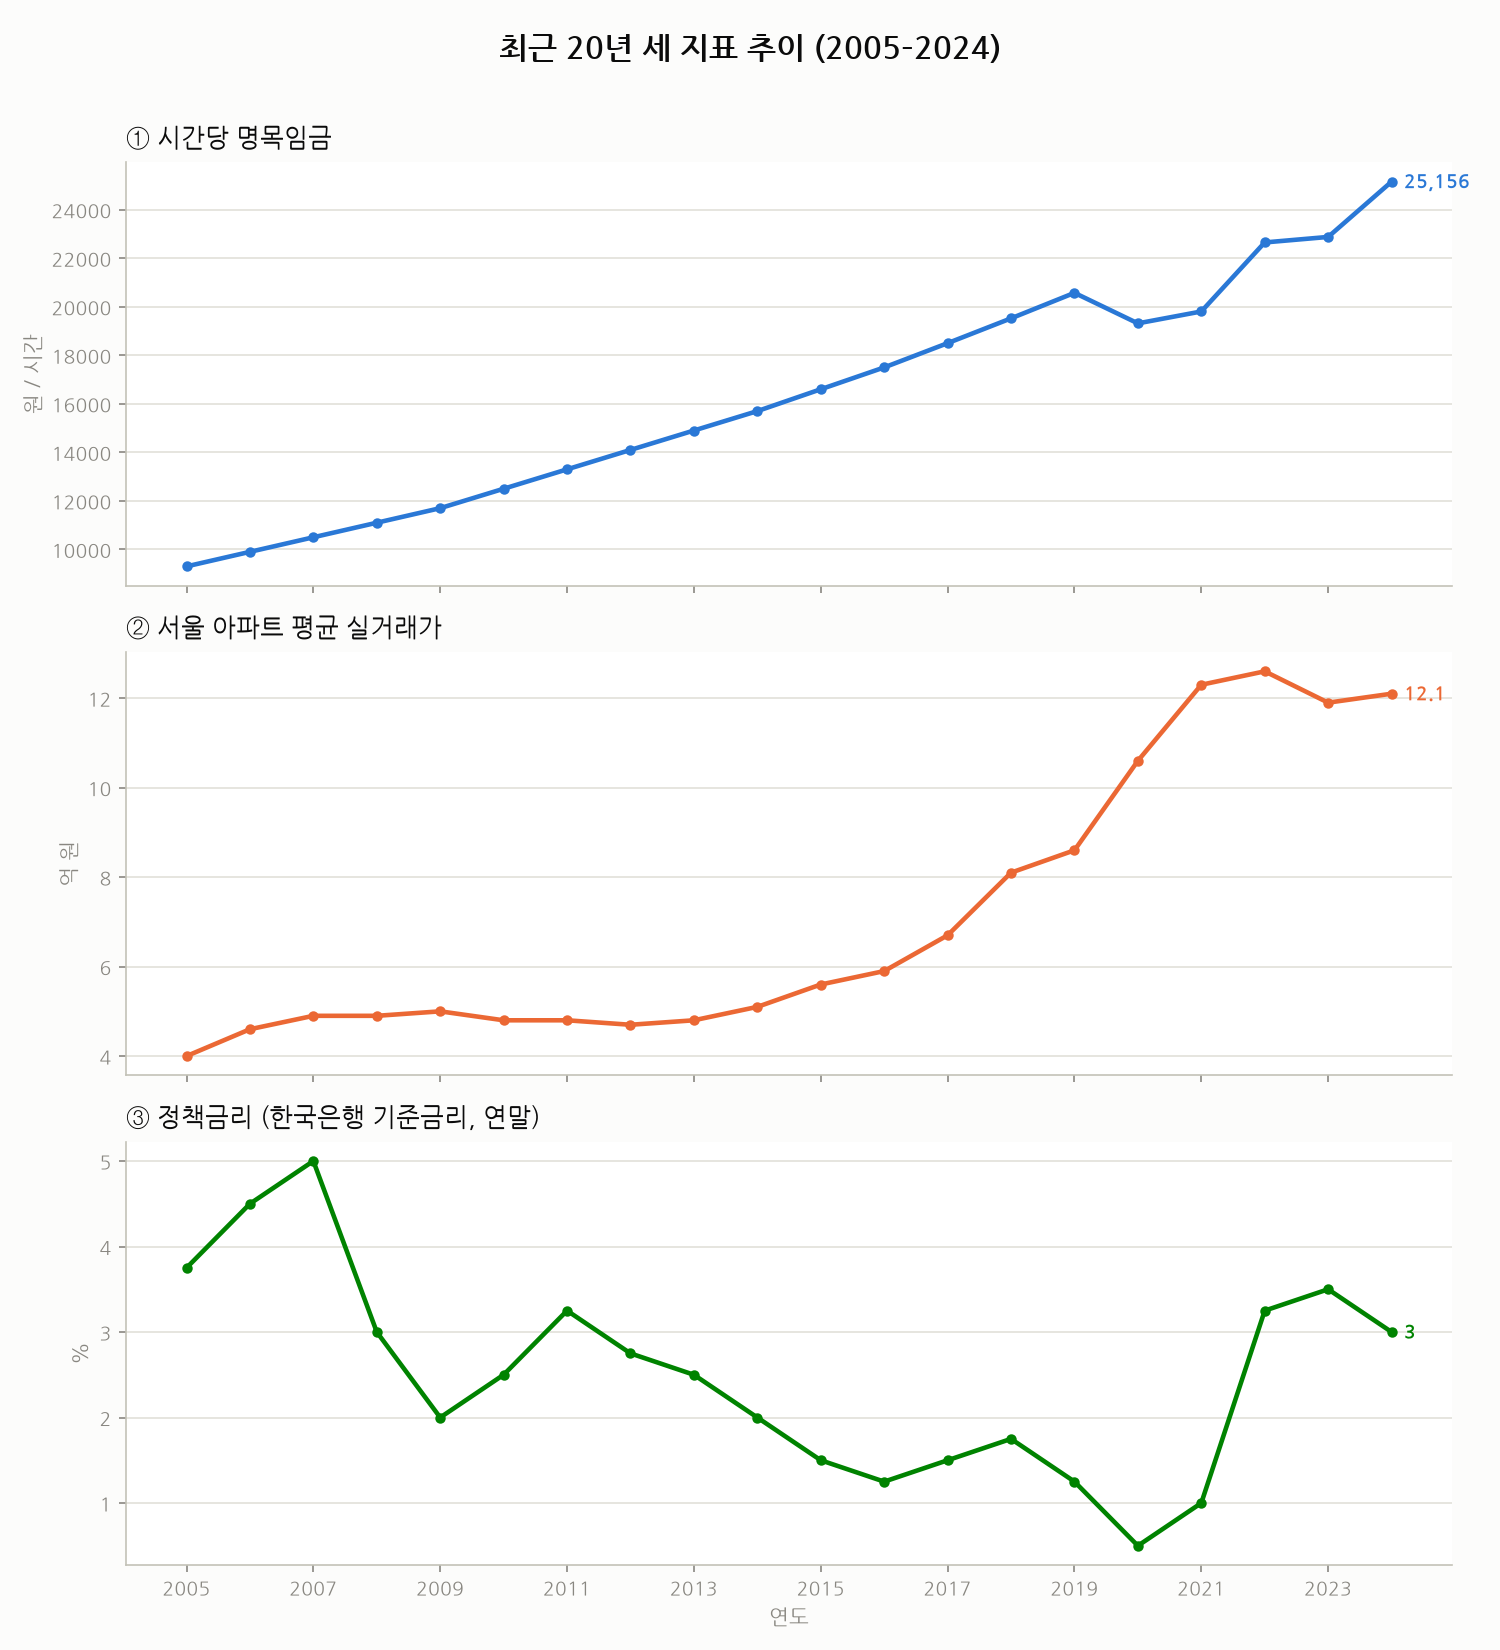
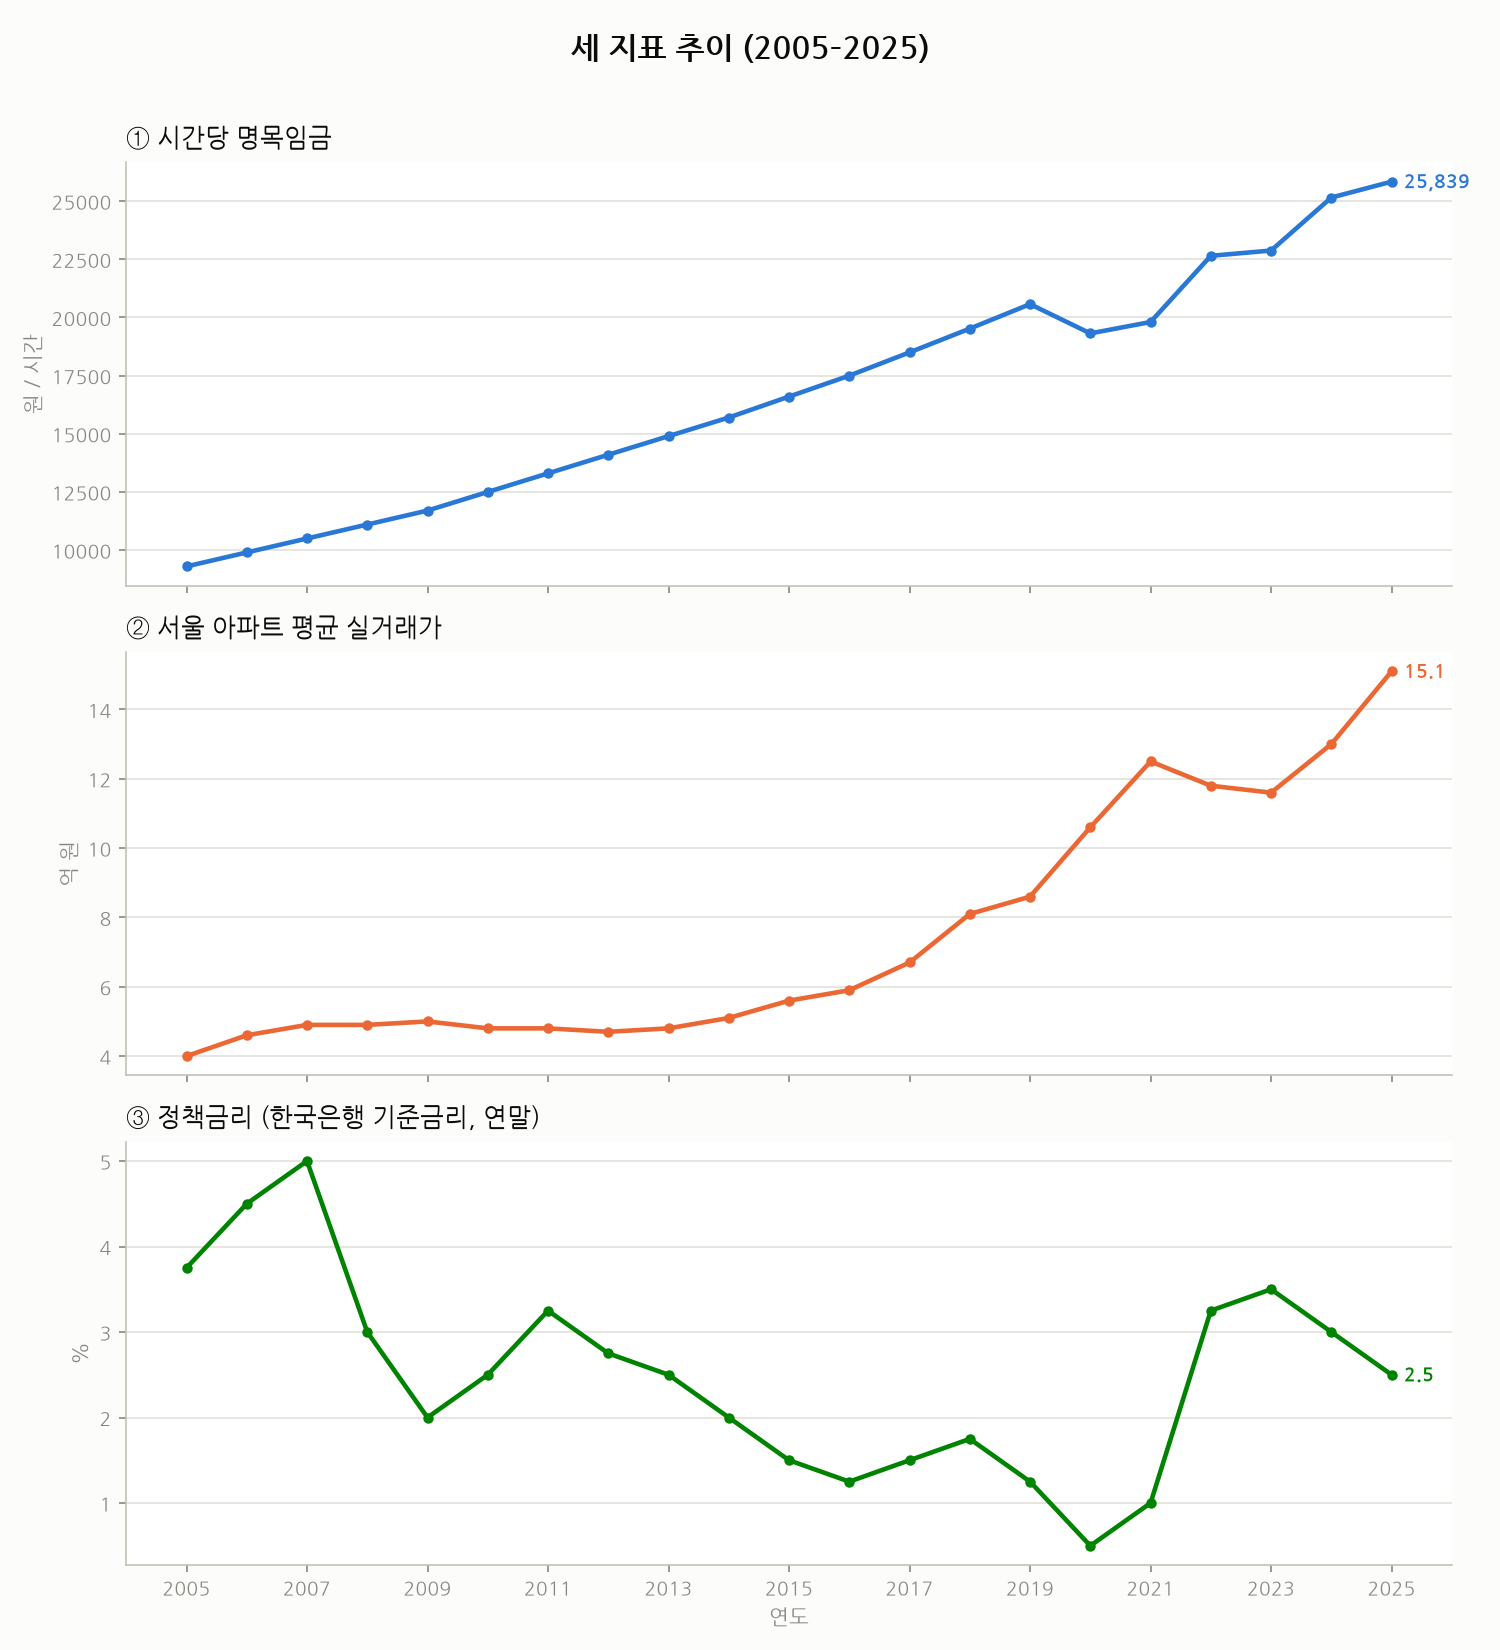
Extend charts to 2025; note 2026 in-progress status
Add confirmed 2025 values across all three series:
- 시간당 임금 25,839원 (official, 2025 June survey)
- 서울 아파트 평균가 15.1억 (KB, 2025.12=15.08억 anchor; 실거래가격지수 +13.49% YoY)
- 기준금리 2.50% (2025 year-end, after Feb/May 2025 cuts)

Also realign 2021–2024 KB apartment estimates for consistency with the
2025 anchors. 2026 is a year in progress: only the policy rate has a
current reading (2.75%, hiked 2026-07-16) while the 2026 wage survey is
unpublished and housing is partial — so the charts run through 2025 and
2026 status is surfaced as a note rather than plotted as an annual point.

Claude-Session: https://claude.ai/code/session_01XM9Vo8JohgVHh6kgab82uz

diff --git a/wage_housing_rate/chart.html b/wage_housing_rate/chart.html
@@ -1,4 +1,4 @@
-<title>임금 · 서울 아파트값 · 정책금리 (2005–2024)</title>
+<title>임금 · 서울 아파트값 · 정책금리 (2005–2025)</title>
 <style>
   :root {
     color-scheme: light;
@@ -146,10 +146,13 @@
 <div class="wrap">
   <header>
     <div>
-      <p class="eyebrow">2005 — 2024 · 최근 20년</p>
+      <p class="eyebrow">2005 — 2025 · 최근 20여 년</p>
       <h1>시간당 임금 · 서울 아파트 실거래가 · 정책금리</h1>
-      <p class="lede">같은 20년을 세 개의 선으로. 임금은 꾸준히 올랐지만, 서울 아파트값은
-        2015년 이후 임금을 앞질러 벌어졌고, 그 사이 정책금리는 두 번의 저금리기와 급등을 오갔습니다.</p>
+      <p class="lede">같은 기간을 세 개의 선으로. 임금은 꾸준히 올랐지만, 서울 아파트값은
+        2015년 이후 임금을 앞질렀고 <b>2025년 다시 급등</b>했습니다. 그 사이 정책금리는 두 번의 저금리기와 급등을 오갔습니다.</p>
+      <p class="lede" style="margin-top:8px;font-size:13.5px;color:var(--muted)">
+        2026년(진행 중): 기준금리 7월 <b>2.75%로 인상</b> · 서울 집값 상승세 지속 · 임금 6월 조사값 미발표 →
+        연간값이 완성된 <b>2025년까지</b> 표시</p>
     </div>
     <button class="theme-btn" id="themeBtn" aria-label="테마 전환">
       <span id="themeIcon">◐</span><span id="themeTxt">테마</span>
@@ -208,18 +211,19 @@
     </div>
   </details>
 
-  <footer>최근 20년(2005–2024) 세 지표 라인 차트 · 값은 확인 앵커+공식 변동률 기반 재구성(일부 추정 포함) · 인과 아닌 추세 비교용</footer>
+  <footer>2005–2025 세 지표 라인 차트 · 값은 확인 앵커+공식 변동률 기반 재구성(일부 추정 포함) · 인과 아닌 추세 비교용</footer>
 </div>
 
 <script>
-const YEARS = [2005,2006,2007,2008,2009,2010,2011,2012,2013,2014,2015,2016,2017,2018,2019,2020,2021,2022,2023,2024];
-const WAGE  = [9300,9900,10500,11100,11700,12500,13300,14100,14900,15700,16600,17500,18500,19522,20573,19316,19806,22651,22878,25156];
-const APT   = [4.0,4.6,4.9,4.9,5.0,4.8,4.8,4.7,4.8,5.1,5.6,5.9,6.7,8.1,8.6,10.6,12.3,12.6,11.9,12.1];
-const RATE  = [3.75,4.50,5.00,3.00,2.00,2.50,3.25,2.75,2.50,2.00,1.50,1.25,1.50,1.75,1.25,0.50,1.00,3.25,3.50,3.00];
-const APT_INDEX = [null,48,50,48,53,52,53,50,49,51,56,60,65,73,76,86,100,78,86,92]; // 한국부동산원 실거래가격지수
+const YEARS = [2005,2006,2007,2008,2009,2010,2011,2012,2013,2014,2015,2016,2017,2018,2019,2020,2021,2022,2023,2024,2025];
+const WAGE  = [9300,9900,10500,11100,11700,12500,13300,14100,14900,15700,16600,17500,18500,19522,20573,19316,19806,22651,22878,25156,25839];
+const APT   = [4.0,4.6,4.9,4.9,5.0,4.8,4.8,4.7,4.8,5.1,5.6,5.9,6.7,8.1,8.6,10.6,12.5,11.8,11.6,13.0,15.1];
+const RATE  = [3.75,4.50,5.00,3.00,2.00,2.50,3.25,2.75,2.50,2.00,1.50,1.25,1.50,1.75,1.25,0.50,1.00,3.25,3.50,3.00,2.50];
+const APT_INDEX = [null,48,50,48,53,52,53,50,49,51,56,60,65,73,76,86,100,78,86,92,105]; // 한국부동산원 실거래가격지수
+// 2026(진행중): 기준금리 2.75%로 7월 인상 · 서울 집값 상승세 지속 · 임금 6월조사 미발표 → 연간점 미포함
 // official-from-year flags
 const WAGE_OFFICIAL_FROM = 2018;
-const APT_CONFIRMED = {2018:1,2019:1,2020:1,2021:1,2023:1,2024:1};
+const APT_CONFIRMED = {2018:1,2019:1,2020:1,2025:1};
 
 function cssVar(n){ return getComputedStyle(document.documentElement).getPropertyValue(n).trim(); }
 function idx100(a){ const b=a[0]; return a.map(function(v){return v/b*100;}); }
@@ -335,13 +339,14 @@ const pct=function(v){return (v%1===0?v.toFixed(0):v.toFixed(2))+"";};
 
 // ---------- render KPIs ----------
 function pctChange(a){ return Math.round((a[a.length-1]/a[0]-1)*100); }
+const LAST = YEARS.length-1;
 document.getElementById("kpis").innerHTML =
- kpiCard("var(--wage)","시간당 명목임금","25,156원",
-   "2005년 대비 <b>"+pctChange(WAGE)+"%</b> ↑ · 지수 "+Math.round(WAGE_IDX[19])) +
- kpiCard("var(--apt)","서울 아파트 평균가","12.1억원",
-   '<span class="up">'+pctChange(APT)+"%</span> · 지수 "+Math.round(APT_IDX[19])+" (임금 앞질러 상승)") +
- kpiCard("var(--rate)","정책금리(기준금리)","3.00%",
-   "20년 저점 0.50%(2020) ~ 고점 5.00%(2007)");
+ kpiCard("var(--wage)","시간당 명목임금 (2025)","25,839원",
+   "2005년 대비 <b>"+pctChange(WAGE)+"%</b> ↑ · 지수 "+Math.round(WAGE_IDX[LAST])) +
+ kpiCard("var(--apt)","서울 아파트 평균가 (2025)","15.1억원",
+   '<span class="up">'+pctChange(APT)+"%</span> · 지수 "+Math.round(APT_IDX[LAST])+" (임금 크게 앞섬)") +
+ kpiCard("var(--rate)","정책금리 (기준금리)","2.50%",
+   "2025년말 · <b>2026.07 2.75%로 인상</b> · 20년 저점 0.50%(2020)");
 function kpiCard(color,lab,val,sub){
   return '<div class="kpi"><p class="lab"><span class="dot" style="background:'+color+'"></span>'+lab+
     '</p><div class="val">'+val+'</div><p class="sub">'+sub+'</p></div>';

diff --git a/wage_housing_rate/build_charts.py b/wage_housing_rate/build_charts.py
@@ -1,5 +1,5 @@
 #!/usr/bin/env python3
-"""최근 20년(2005~2024) 세 지표 라인 차트 생성.
+"""최근 20여 년(2005~2025) 세 지표 라인 차트 생성.
 
   1) 시간당 명목임금 (원/시간)
   2) 서울 아파트 실거래가 (한국부동산원 실거래가격지수 및 평균 실거래가)
@@ -76,8 +76,8 @@ def _style_axis(ax):
 
 def fig_three_panels(df: pd.DataFrame):
     fig, axes = plt.subplots(3, 1, figsize=(10, 11), sharex=True)
-    fig.suptitle(L("최근 20년 세 지표 추이 (2005–2024)",
-                   "Three indicators, 2005–2024"),
+    fig.suptitle(L("세 지표 추이 (2005–2025)",
+                   "Three indicators, 2005–2025"),
                  fontsize=15, fontweight="bold", color=INK, y=0.98)
 
     panels = [

diff --git a/wage_housing_rate/README.md b/wage_housing_rate/README.md
@@ -1,6 +1,6 @@
-# 시간당 임금 · 서울 아파트 실거래가 · 정책금리 (최근 20년)
+# 시간당 임금 · 서울 아파트 실거래가 · 정책금리 (2005–2025)
 
-최근 20년(**2005–2024**) 동안 세 지표가 어떻게 움직였는지 라인 차트로 비교합니다.
+최근 20여 년(**2005–2025**) 동안 세 지표가 어떻게 움직였는지 라인 차트로 비교합니다.
 
 1. **시간당 명목임금** — 원/시간
 2. **서울 아파트 실거래가** — 억 원 (평균 매매가격) + 실거래가격지수
@@ -11,10 +11,12 @@
 
 ## 한눈에 보기
 
-- 임금은 20년간 **약 +170%**(지수 270), 서울 아파트 평균가는 **약 +203%**(지수 303)로,
-  2015년 이후 아파트값이 임금을 앞질러 벌어졌습니다.
-- 정책금리는 2007년 5.00% 고점 → 2020년 0.50% 저점 → 2023년 3.50%로,
+- 임금은 20여 년간 **약 +178%**(지수 278), 서울 아파트 평균가는 **약 +278%**(지수 378)로,
+  2015년 이후 아파트값이 임금을 앞질렀고 **2025년 다시 급등**해 격차가 크게 벌어졌습니다.
+- 정책금리는 2007년 5.00% 고점 → 2020년 0.50% 저점 → 2023년 3.50% → 2025년 2.50%로,
   저금리기(2015–2021)와 아파트값 급등이 겹칩니다.
+- 2026년(진행 중): 기준금리 7월 **2.75%로 인상**, 서울 집값 상승세 지속. 임금 6월 조사값은
+  미발표라 연간값이 완성된 **2025년까지** 표시합니다.
 
 ## 실행
 
@@ -35,12 +37,12 @@ python build_charts.py        # outputs/ 에 PNG 2종 생성
 
 `data/` 의 CSV는 각 값에 **신뢰도 표기**(official/confirmed vs estimate)를 담고 있습니다.
 
-- **정책금리**: 한국은행 기준금리 결정 이력 — 전 구간 확정.
-- **시간당 임금**: **2018년 이후 공식 수치**(고용형태별근로실태조사·사업체노동력조사),
+- **정책금리**: 한국은행 기준금리 결정 이력 — 전 구간 확정(2025년말 2.50%, 2026.07 2.75% 인상).
+- **시간당 임금**: **2018–2025년 공식 수치**(고용형태별근로실태조사·사업체노동력조사, 매년 6월),
   2005–2017년은 확인된 앵커 기반 후방외삽 **추정치**. 2020년 표준산업분류 개편으로
-  2019년 이전과 계열 단절이 있습니다.
+  2019년 이전과 계열 단절이 있습니다. 2026년 6월 조사값은 아직 미발표.
 - **서울 아파트값**: KB 평균 매매가격(감정시세 평균이라 엄밀한 '실거래'는 아님, 실거래 흐름의 근사).
-  주요 앵커(2018 8억, 2020 10억, 2025.07 14.06억) 확인, 앵커 사이는 추세 보간.
+  주요 앵커(2018 8억, 2020 10억, 2025.07 14.06억, 2025.12 15.08억) 확인, 앵커 사이는 추세 보간.
 
 ### 정확한 공식 수치로 갱신하기
 
